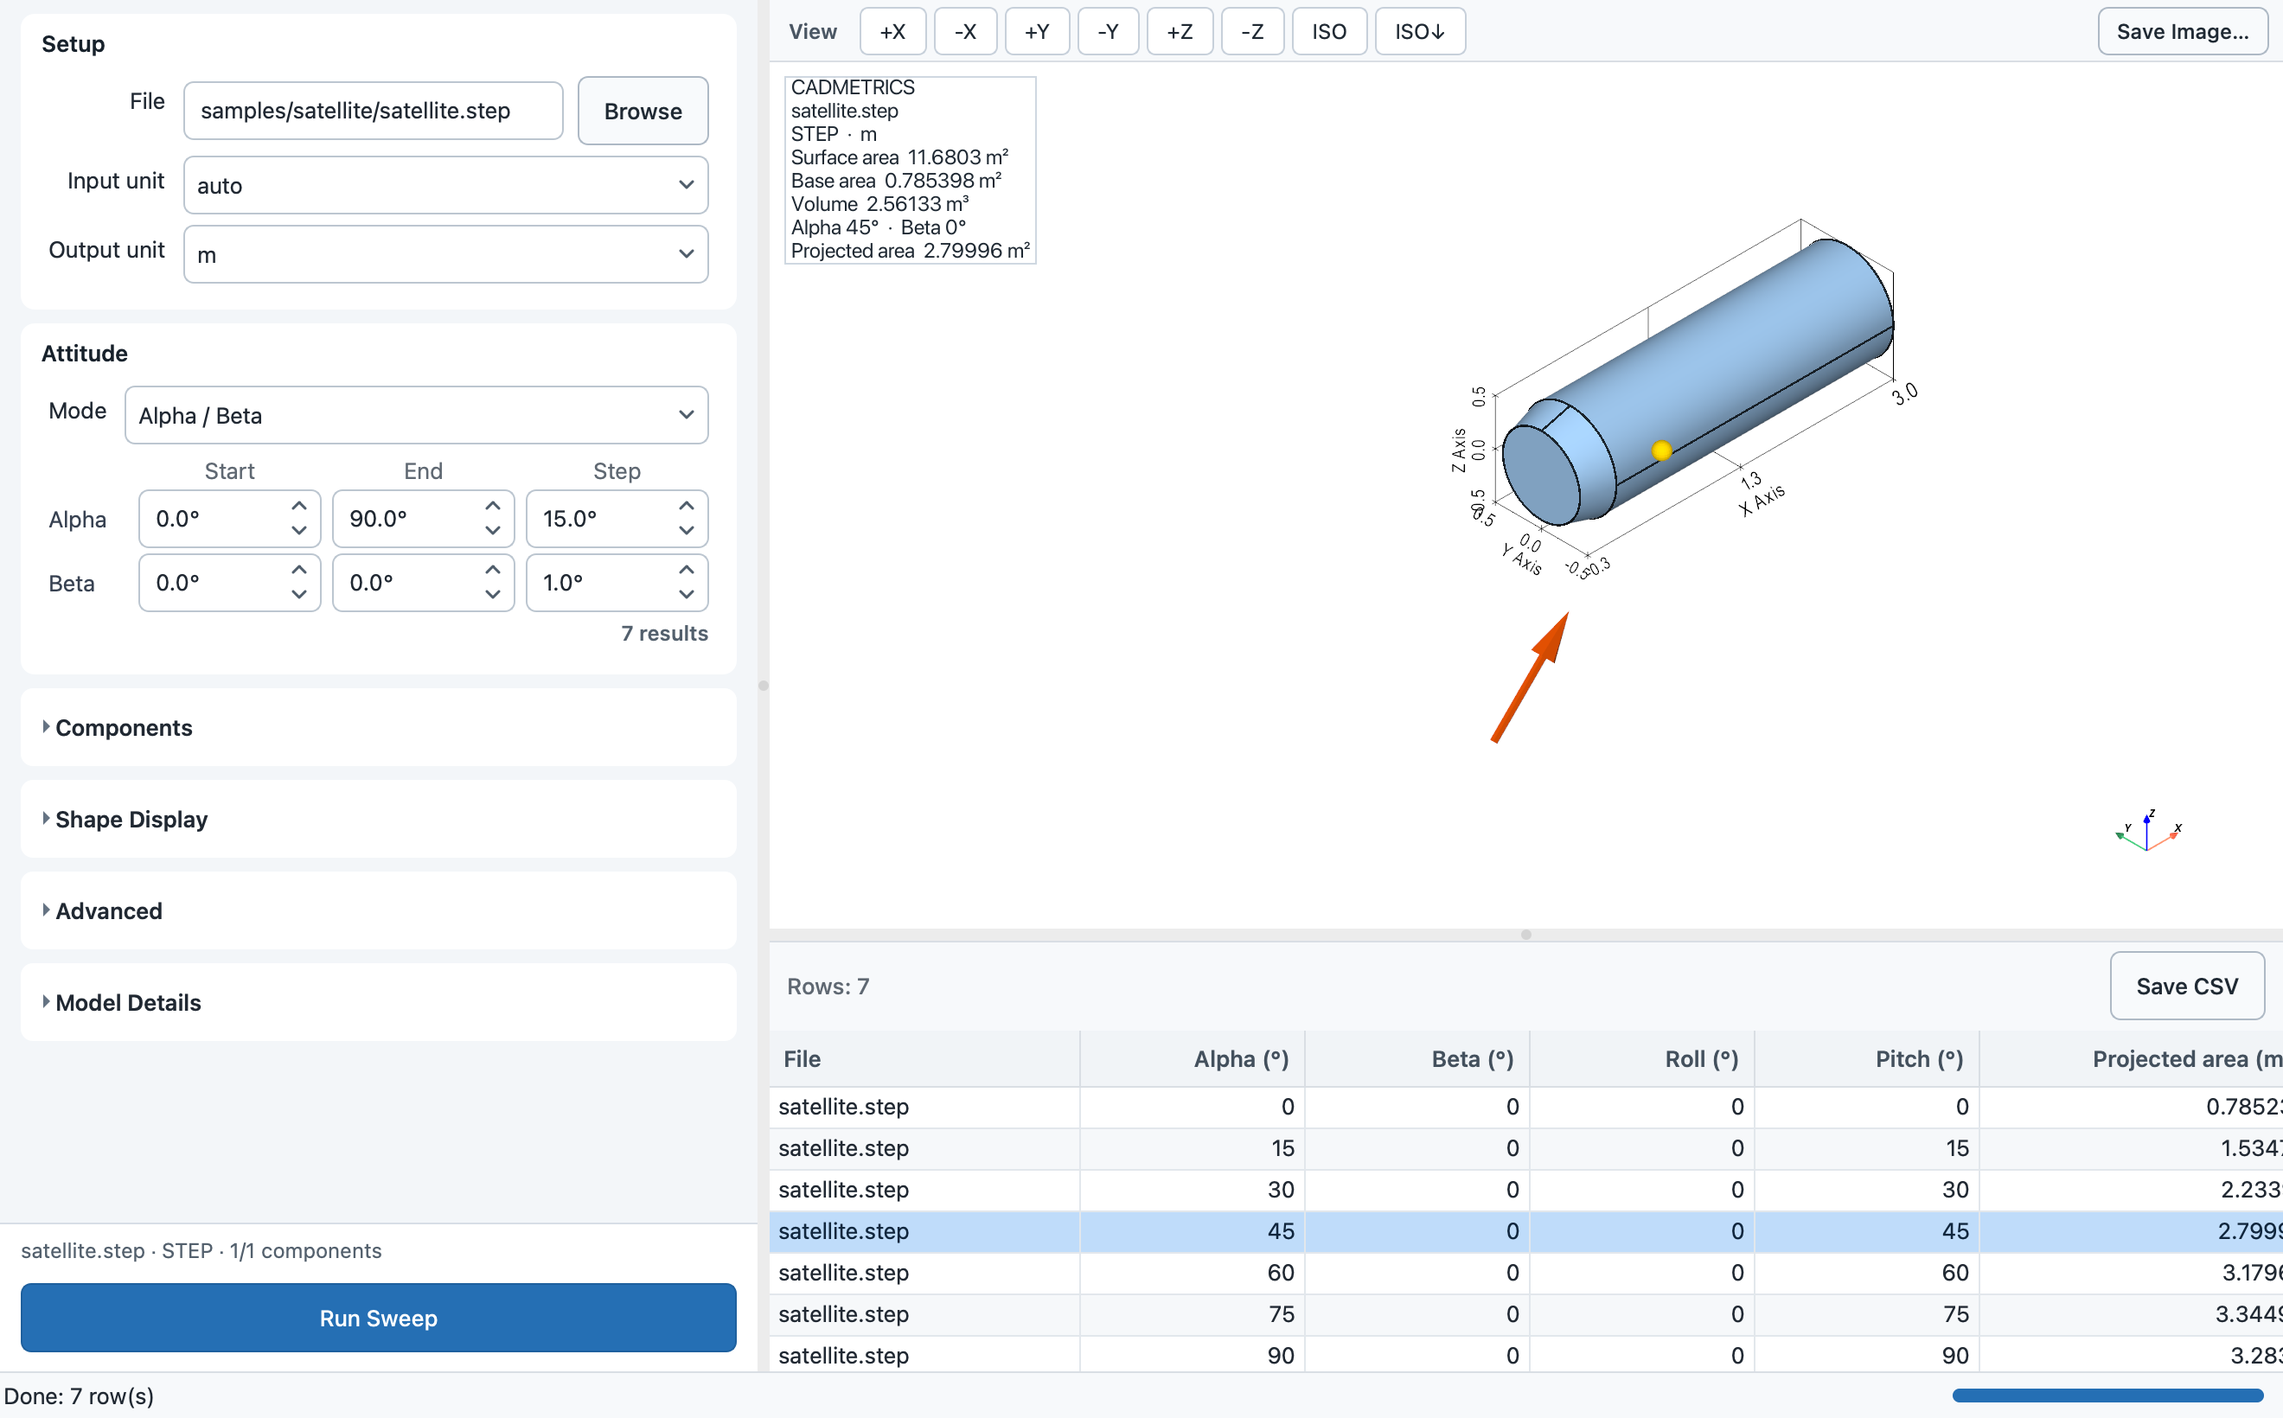
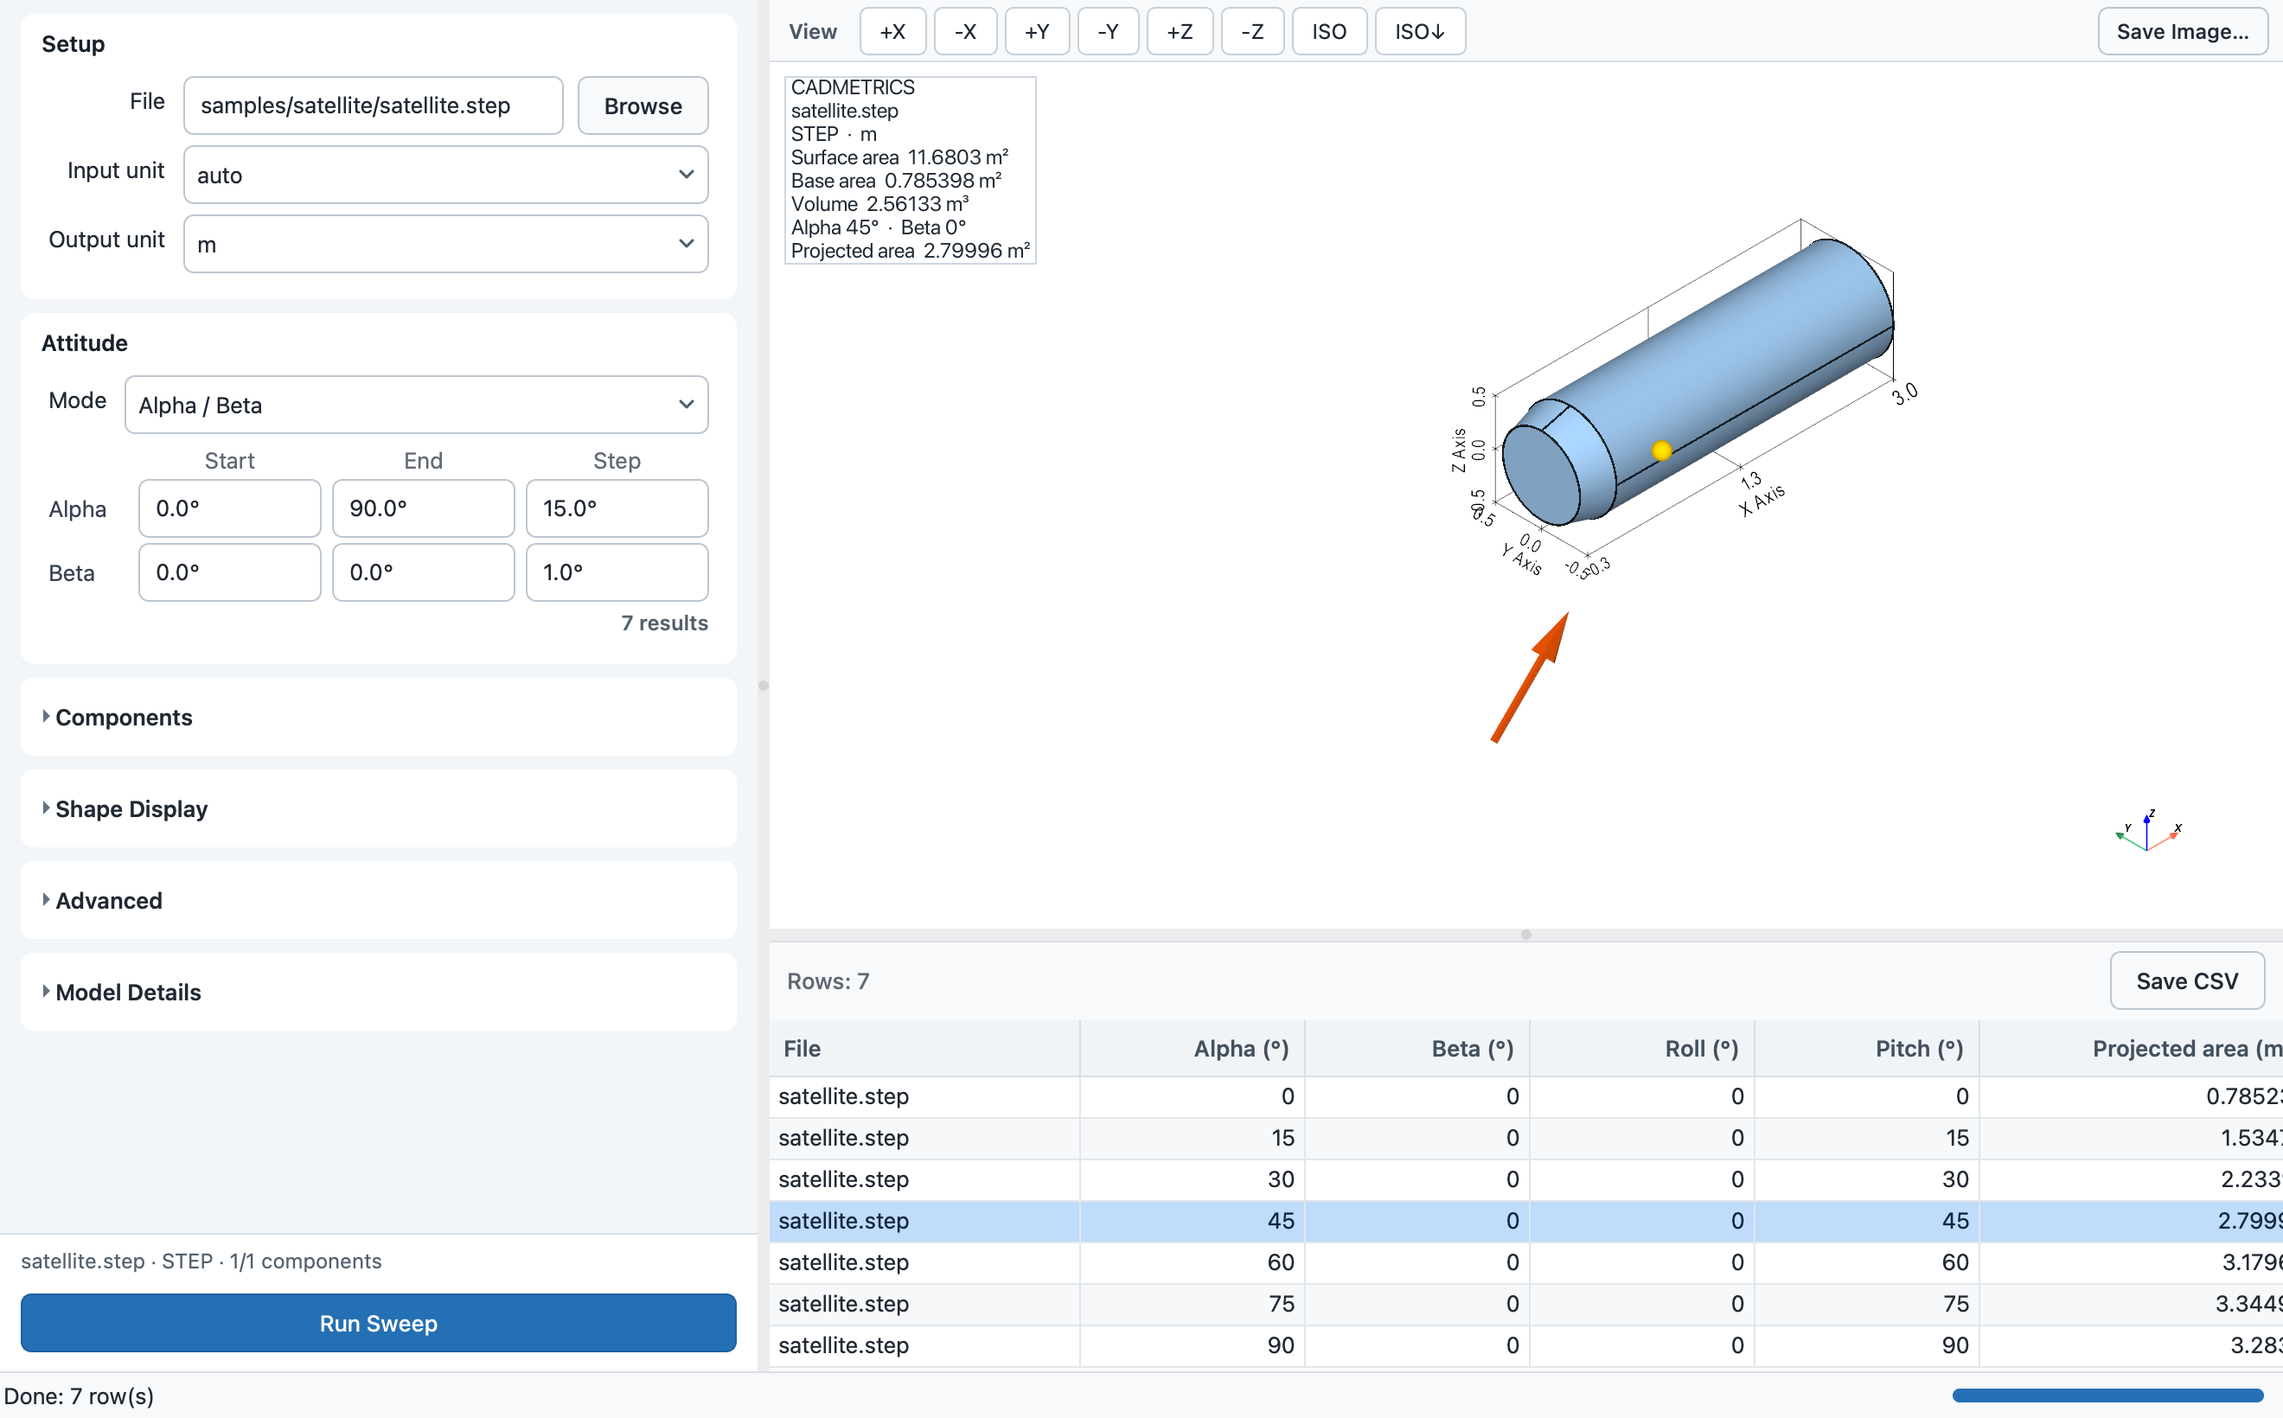
Unify control heights, join open sections, and drop spin box steppers
- Buttons now share the 34px height and border colour of inputs, so Browse,
  Save CSV and Run Sweep line up with neighbouring fields; focus borders
  trade padding for width so sizes never shift. Inputs are capped at the same
  height on every platform style.
- Open collapsible sections no longer show a 3px strip of panel background
  between the header and its content; a hairline separates them instead.
- Spin boxes have no step buttons; values are typed, and a focused field
  still steps with the Up/Down keys or the mouse wheel.
- The component list is sized from its rows' size hints, because newly added
  rows are not shown yet when the list is filled and were otherwise ignored.

diff --git a/src/cadmetrics/gui/control_panel.py b/src/cadmetrics/gui/control_panel.py
@@ -26,6 +26,8 @@ COMPONENT_LIST_MAX_HEIGHT = 200
 class FlexibleDoubleSpinBox(QtWidgets.QDoubleSpinBox):
     def __init__(self, parent: QtWidgets.QWidget | None = None) -> None:
         super().__init__(parent)
+        # Values are typed; Up/Down keys and the wheel still step a focused field.
+        self.setButtonSymbols(QtWidgets.QAbstractSpinBox.ButtonSymbols.NoButtons)
         # Wheel input must not grab focus, or scrolling the panel would edit values.
         self.setFocusPolicy(QtCore.Qt.FocusPolicy.StrongFocus)
 
@@ -38,11 +40,6 @@ class FlexibleDoubleSpinBox(QtWidgets.QDoubleSpinBox):
             event.ignore()  # Let the scroll area scroll instead of changing the value.
             return
         super().wheelEvent(event)
-
-    def hide_step_buttons(self) -> None:
-        """Use for values where a fixed increment is meaningless (tolerances)."""
-        self.setButtonSymbols(QtWidgets.QAbstractSpinBox.ButtonSymbols.NoButtons)
-        self.setProperty("buttonless", True)
 
 
 class PanelComboBox(QtWidgets.QComboBox):
@@ -204,8 +201,8 @@ class ControlPanel(QtWidgets.QWidget):
         component_buttons.setSpacing(6)
         self.component_all_button = QtWidgets.QPushButton("All")
         self.component_none_button = QtWidgets.QPushButton("None")
-        self.component_all_button.setObjectName("compactButton")
-        self.component_none_button.setObjectName("compactButton")
+        self.component_all_button.setObjectName("secondaryButton")
+        self.component_none_button.setObjectName("secondaryButton")
         self.component_all_button.clicked.connect(lambda: self._set_all_components(True))
         self.component_none_button.clicked.connect(lambda: self._set_all_components(False))
         component_buttons.addWidget(self.component_all_button)
@@ -306,7 +303,6 @@ class ControlPanel(QtWidgets.QWidget):
         self.mesh_deflection.setRange(1.0e-8, 1.0)
         self.mesh_deflection.setDecimals(8)
         self.mesh_deflection.setValue(1.0e-3)
-        self.mesh_deflection.hide_step_buttons()
         self.mesh_deflection.setToolTip(
             "Maximum distance between the STEP surface and its tessellation, "
             "in the output length unit."
@@ -324,14 +320,12 @@ class ControlPanel(QtWidgets.QWidget):
         self.angular_deflection = FlexibleDoubleSpinBox()
         self.angular_deflection.setRange(1.0e-6, 1.0)
         self.angular_deflection.setValue(0.1)
-        self.angular_deflection.hide_step_buttons()
         self.angular_deflection.setToolTip("Maximum angle between tessellation facets, in radians.")
         advanced.addRow("Angular deflection", self.angular_deflection)
         self.base_tolerance = FlexibleDoubleSpinBox()
         self.base_tolerance.setRange(1.0e-12, 1.0)
         self.base_tolerance.setDecimals(12)
         self.base_tolerance.setValue(DEFAULT_BASE_TOLERANCE)
-        self.base_tolerance.hide_step_buttons()
         self.base_tolerance.setToolTip(
             "How close a face must be to Xmax to count as base area, relative to the "
             "bounding-box diagonal."
@@ -634,11 +628,27 @@ class ControlPanel(QtWidgets.QWidget):
                 self.component_list_layout.addWidget(checkbox)
                 self._component_checkboxes.append(checkbox)
         self.component_list_layout.addStretch(1)
-        # Fit short lists exactly and scroll only long ones.
-        list_height = self._component_list.sizeHint().height() + 2
-        self.component_scroll.setFixedHeight(min(list_height, COMPONENT_LIST_MAX_HEIGHT))
+        self._fit_component_list()
         self._sync_component_summary()
         self._sync_component_controls(True)
+
+    def _fit_component_list(self) -> None:
+        """Fit short lists exactly and scroll only long ones."""
+        # New rows are not shown until the event loop runs, so the list's own size hint
+        # would ignore them; add up the rows' hints instead.
+        layout = self.component_list_layout
+        items = (layout.itemAt(index) for index in range(layout.count()))
+        rows = [item.widget() for item in items if item is not None]
+        heights = [row.sizeHint().height() for row in rows if row is not None]
+        margins = layout.contentsMargins()
+        content = (
+            margins.top()
+            + margins.bottom()
+            + sum(heights)
+            + layout.spacing() * max(len(heights) - 1, 0)
+        )
+        frame = self.component_scroll.frameWidth() * 2
+        self.component_scroll.setFixedHeight(min(content + frame, COMPONENT_LIST_MAX_HEIGHT))
 
     def _selected_components(self, paths: tuple[Path, ...]) -> tuple[int, ...] | None:
         if not self._component_checkboxes or paths != self._component_filter_path:
@@ -783,7 +793,7 @@ class ControlPanel(QtWidgets.QWidget):
         section.setObjectName("collapsibleSection")
         section_layout = QtWidgets.QVBoxLayout(section)
         section_layout.setContentsMargins(0, 0, 0, 0)
-        section_layout.setSpacing(3)
+        section_layout.setSpacing(0)
 
         toggle = QtWidgets.QToolButton(section)
         toggle.setText(title)

diff --git a/src/cadmetrics/gui/styles.py b/src/cadmetrics/gui/styles.py
@@ -87,8 +87,9 @@ def with_spinbox_assets(stylesheet: str) -> str:
 APPLICATION_STYLESHEET = """
 QWidget { color: #202832; font-size: 13px; font-weight: 400; }
 QWidget#controlPanel, QWidget#controlContent { background: #f3f6f9; }
+/* Controls share one 34px height: min-height + vertical padding + 1px borders. */
 QLineEdit, QComboBox, QDoubleSpinBox {
-    min-height: 28px; border: 1px solid #bcc6d0; border-radius: 6px;
+    min-height: 28px; max-height: 28px; border: 1px solid #bcc6d0; border-radius: 6px;
     padding: 2px 7px; background: #ffffff; selection-background-color: #2f78c4;
 }
 QLineEdit:hover, QComboBox:hover, QDoubleSpinBox:hover { border-color: #93a2b2; }
@@ -112,38 +113,21 @@ QComboBox QAbstractItemView {
 QComboBox QAbstractItemView::item { min-height: 26px; padding: 0 8px; border-radius: 4px; }
 QComboBox QAbstractItemView::item:hover { background: #eef3f8; }
 QComboBox QAbstractItemView::item:selected { background: #dcebfb; color: #10263d; }
-QDoubleSpinBox { padding-right: 22px; }
-QDoubleSpinBox[buttonless="true"] { padding-right: 7px; }
-QDoubleSpinBox::up-button, QDoubleSpinBox::down-button {
-    width: 20px; border: 0; background: transparent;
-}
-QDoubleSpinBox::up-button {
-    subcontrol-origin: border; subcontrol-position: top right;
-    margin: 3px 3px 0 0; border-top-right-radius: 4px; height: 13px;
-}
-QDoubleSpinBox::down-button {
-    subcontrol-origin: border; subcontrol-position: bottom right;
-    margin: 0 3px 3px 0; border-bottom-right-radius: 4px; height: 13px;
-}
-QDoubleSpinBox::up-button:hover, QDoubleSpinBox::down-button:hover { background: #e9eff6; }
-QDoubleSpinBox::up-button:pressed, QDoubleSpinBox::down-button:pressed { background: #d9e4f0; }
-QDoubleSpinBox::up-button:disabled, QDoubleSpinBox::down-button:disabled { background: transparent; }
-QDoubleSpinBox::up-arrow { image: url("__SPIN_UP_URL__"); width: 10px; height: 6px; }
-QDoubleSpinBox::down-arrow { image: url("__SPIN_DOWN_URL__"); width: 10px; height: 6px; }
-QDoubleSpinBox::up-arrow:disabled { image: url("__SPIN_UP_DISABLED_URL__"); }
-QDoubleSpinBox::down-arrow:disabled { image: url("__SPIN_DOWN_DISABLED_URL__"); }
+QDoubleSpinBox { padding-right: 7px; }
 QPushButton {
-    min-height: 30px; border: 1px solid #aeb9c5; border-radius: 6px;
+    min-height: 24px; border: 1px solid #bcc6d0; border-radius: 6px;
     padding: 4px 14px; background: #f8fafc; color: #1f2933; font-weight: 500;
 }
-QPushButton:hover { background: #eef3f8; border-color: #99a8b8; }
+QPushButton:hover { background: #eef3f8; border-color: #93a2b2; }
 QPushButton:pressed { background: #e3eaf2; border-color: #8798aa; }
-QPushButton:focus, QToolButton:focus { border: 2px solid #2f78c4; }
+/* Thicker focus borders give up the same amount of padding so sizes stay fixed. */
+QPushButton:focus { border: 2px solid #2f78c4; padding: 3px 13px; }
+QToolButton:focus { border: 2px solid #2f78c4; }
 QPushButton:disabled { background: #e9edf1; border-color: #cdd4dc; color: #66707b; }
 QPushButton#primaryButton { background: #256fb4; border-color: #1e609e; color: white; }
 QPushButton#primaryButton:hover { background: #1f65a5; }
 QPushButton#primaryButton:pressed { background: #184f85; border-color: #143f6a; }
-QPushButton#primaryButton:focus { border: 2px solid #0f3d6b; }
+QPushButton#primaryButton:focus { border: 2px solid #0f3d6b; padding: 3px 13px; }
 QPushButton#primaryButton:disabled {
     background: #e9edf1; border-color: #cdd4dc; color: #66707b;
 }
@@ -185,7 +169,8 @@ QToolButton#sectionToggle {
 }
 QToolButton#sectionToggle:hover { background: #eaf0f6; }
 QToolButton#sectionToggle:checked {
-    background: #ffffff; border-bottom-left-radius: 0; border-bottom-right-radius: 0;
+    background: #ffffff; border-bottom: 1px solid #e6ebf0;
+    border-bottom-left-radius: 0; border-bottom-right-radius: 0;
 }
 QToolButton#sectionToggle:checked:hover { background: #f3f7fa; }
 QScrollArea#componentList {
@@ -226,9 +211,6 @@ QLabel#resultsStaleLabel {
     color: #925c12; background: #fff4d8; border-radius: 5px; padding: 5px 7px;
 }
 QLabel#validationMessageLabel { color: #a23b32; font-size: 12px; }
-QPushButton#compactButton {
-    min-height: 22px; padding: 1px 10px; font-size: 12px; border-radius: 5px;
-}
 QLabel#fieldHint { color: #5f6b78; font-size: 12px; }
 QWidget#viewerToolbar { background: #f7f9fb; border-bottom: 1px solid #d9dee4; }
 QLabel#viewerToolbarLabel { color: #4a5663; font-size: 12px; font-weight: 600; padding-right: 4px; }

diff --git a/tests/test_gui_control_panel_ux.py b/tests/test_gui_control_panel_ux.py
@@ -231,9 +231,7 @@ def test_wheel_over_unfocused_inputs_scrolls_instead_of_editing(qtbot, tmp_path:
     assert combo.currentText() == "m"
 
 
-def test_angle_fields_show_degrees_and_tolerances_have_no_step_buttons(
-    qtbot, tmp_path: Path
-) -> None:
+def test_angle_fields_show_degrees_and_no_field_has_step_buttons(qtbot, tmp_path: Path) -> None:
     panel = _panel(qtbot, tmp_path)
     for field in (*panel.alpha_fields, *panel.beta_fields, *panel.roll_fields):
         assert field.suffix() == "°"
@@ -242,11 +240,37 @@ def test_angle_fields_show_degrees_and_tolerances_have_no_step_buttons(
     assert all(field.suffix() == "" for field in panel.vector_fields)
 
     no_buttons = QtWidgets.QAbstractSpinBox.ButtonSymbols.NoButtons
+    spin_boxes = panel.findChildren(QtWidgets.QDoubleSpinBox)
+    assert len(spin_boxes) >= 18
+    assert all(field.buttonSymbols() == no_buttons for field in spin_boxes)
     for field in (panel.mesh_deflection, panel.angular_deflection, panel.base_tolerance):
-        assert field.buttonSymbols() == no_buttons
-        assert field.property("buttonless") is True
         assert field.toolTip()
-    assert panel.alpha_fields[0].buttonSymbols() != no_buttons
+
+    # Keyboard stepping still works once a field has focus.
+    field = panel.alpha_fields[2]
+    field.setFocus()
+    qtbot.keyClick(field, QtCore.Qt.Key.Key_Up)
+    assert field.value() == 2.0
+
+
+def test_buttons_match_input_height_and_open_sections_have_no_gap(qtbot, tmp_path: Path) -> None:
+    from cadmetrics.gui.styles import application_stylesheet
+
+    panel = _panel(qtbot, tmp_path)
+    panel.setStyleSheet(application_stylesheet())
+    panel.resize(440, 900)
+    panel.show()
+    qtbot.waitExposed(panel)
+    height = panel.file_edit.height()
+    for widget in (panel.browse_button, panel.input_unit, panel.alpha_fields[0], panel.run_button):
+        assert widget.height() == height == 34
+    # Hidden until a multi-component model loads, so compare its preferred height.
+    assert panel.component_all_button.sizeHint().height() == height
+
+    toggle = panel._section_toggles["Advanced"]
+    toggle.setChecked(True)
+    content = toggle.parentWidget().findChild(QtWidgets.QGroupBox, "sectionContent")
+    assert content.geometry().top() == toggle.geometry().bottom() + 1
 
 
 def test_combo_popups_use_styleable_list_views(qtbot, tmp_path: Path) -> None:
@@ -264,10 +288,15 @@ def test_combo_popups_use_styleable_list_views(qtbot, tmp_path: Path) -> None:
 
 def test_component_list_height_fits_short_lists(qtbot, tmp_path: Path) -> None:
     panel = _panel(qtbot, tmp_path, "model.step")
+    panel.resize(440, 900)
+    panel.show()
+    qtbot.waitExposed(panel)
     panel.set_model(_model(tmp_path / "model.step", ("A", "B")))
     short = panel.component_scroll.height()
+    qtbot.wait(10)  # Let Qt show the new rows before measuring the content.
     content = panel.component_scroll.widget().sizeHint().height()
-    assert short == content + 2
+    assert content + 2 * panel.component_scroll.frameWidth() <= short < 200
+    assert not panel.component_scroll.verticalScrollBar().isVisible()
 
     names = tuple(f"Part {index}" for index in range(30))
     panel.set_model(_model(tmp_path / "model.step", names))

diff --git a/docs/gui.md b/docs/gui.md
@@ -237,8 +237,7 @@ The actual diagonal is used for sub-unit models as well; only the final output-u
 floored at `1e-9`.
 
 `Angular deflection` controls STEP angular tessellation tolerance, in radians. Its default is
-`0.1`. The tolerance fields have no step arrows because a fixed increment is not meaningful for
-them; type the value instead.
+`0.1`.
 
 `Base tolerance` controls how close a face must be to cadmetrics-coordinate `Xmax` to count as
 `base_area`. It is relative to the loaded model size: cadmetrics uses
@@ -303,8 +302,9 @@ when `Start` and `End` are the same:
 Angle modes use separate `Start`, `End`, and `Step` fields, shown in degrees. The sweep calculates
 every combination of the selected angle ranges. Unit-vector mode does not sweep.
 
-Scrolling over the left panel scrolls it; the mouse wheel changes a number or drop-down only after
-you click into that field.
+Number fields have no step arrows; type the value. Once a field has focus, the Up/Down keys and the
+mouse wheel still step it. Scrolling over the left panel scrolls it; the mouse wheel changes a
+number or drop-down only after you click into that field.
 
 See [Attitude Definition](attitude.md) for the coordinate convention and formulas.
 
